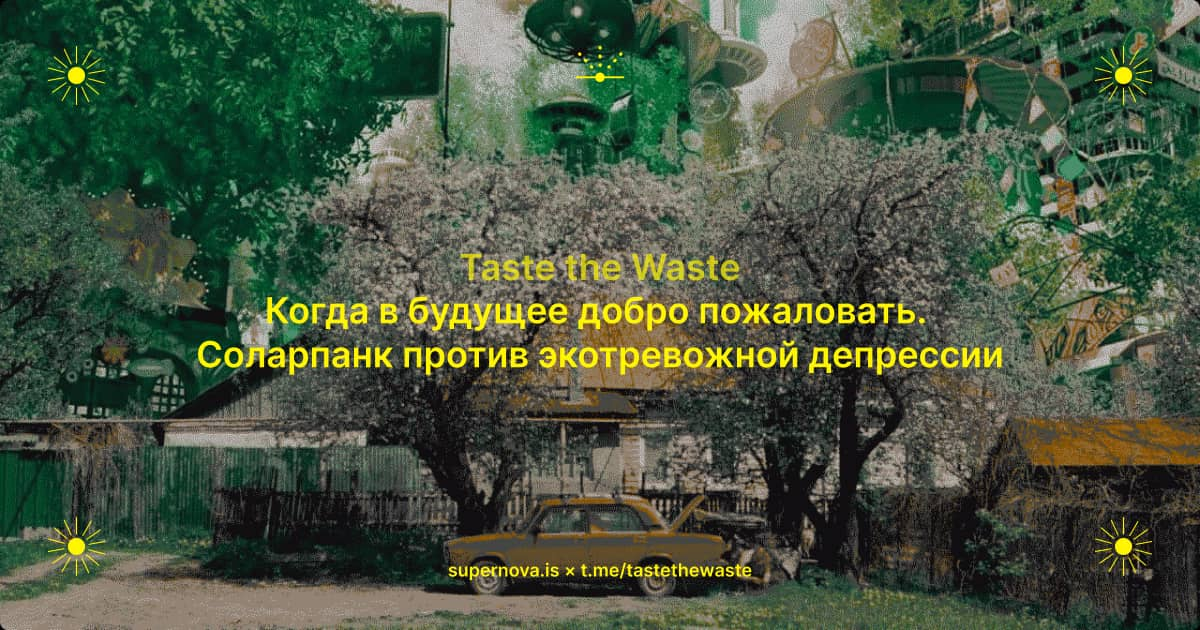
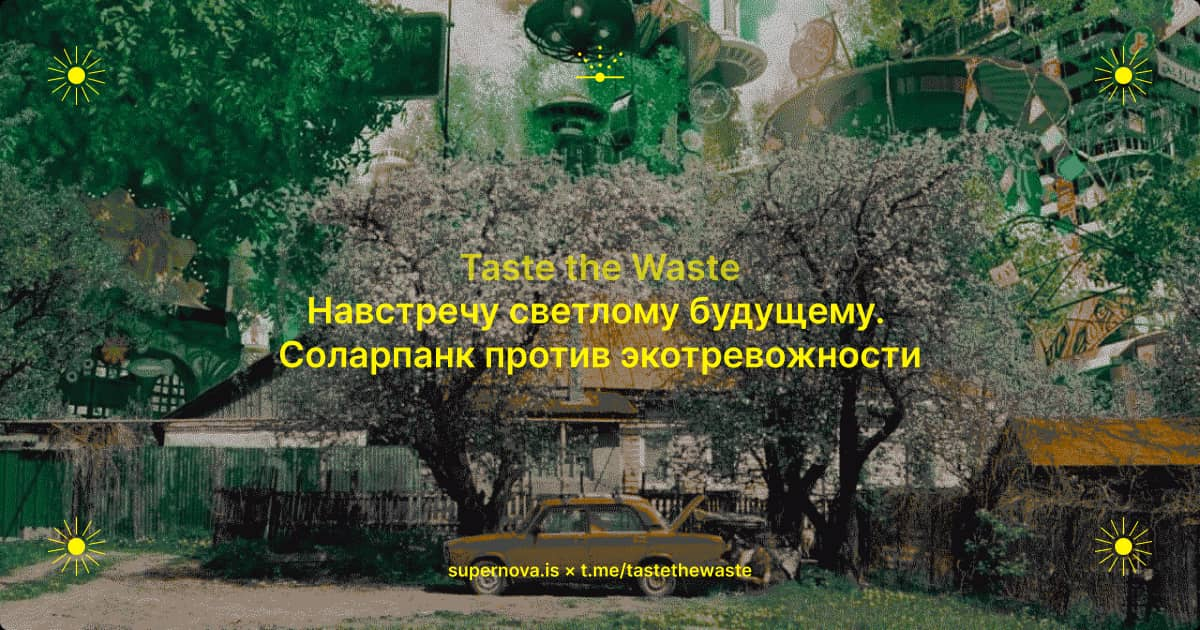
Last minute copy changes

Changed region(s): [[0.1542, 0.4524, 0.8325, 0.6032]]

diff --git a/visions/solarpunk.html b/visions/solarpunk.html
@@ -6,13 +6,13 @@
     <meta charset="UTF-8">
     <meta name="viewport" content="width=device-width, initial-scale=1.0">
     
-    <title>Когда в&nbsp;будущее добро пожаловать. Соларпанк против экотревожной депрессии</title>
+    <title>Навстречу светлому будущему. Соларпанк против экотревожности</title>
     <meta name="description" content="Как новый литературный жанр делает утопию вновь желанной и&nbsp;приближенной к&nbsp;реальности, и&nbsp;причем тут солнечная энергетика">
         
     <!-- Facebook Meta Tags -->
     <meta property="og:url" content="supernova.is">
     <meta property="og:type" content="website">
-    <meta property="og:title" content="Когда в&nbsp;будущее добро пожаловать. Соларпанк против экотревожной депрессии">
+    <meta property="og:title" content="Навстречу светлому будущему. Соларпанк против экотревожности">
     <meta property="og:description" content="Как новый литературный жанр делает утопию вновь желанной и&nbsp;приближенной к&nbsp;реальности, и&nbsp;причем тут солнечная энергетика">
     
     <meta property="og:image" content="/img/solarpunk/solarpunk-og.jpg">
@@ -21,7 +21,7 @@
     <meta name="twitter:card" content="summary_large_image">
     <meta property="twitter:domain" content="supernova.is">
     <meta property="twitter:url" content="supernova.is">
-    <meta name="twitter:title" content="Когда в&nbsp;будущее добро пожаловать. Соларпанк против экотревожной депрессии">
+    <meta name="twitter:title" content="Навстречу светлому будущему. Соларпанк против экотревожности">
     <meta name="twitter:description" content="Как новый литературный жанр делает утопию вновь желанной и&nbsp;приближенной к&nbsp;реальности, и&nbsp;причем тут солнечная энергетика">
     
     <meta name="twitter:image" content="/img/solarpunk/solarpunk-og.jpg">
@@ -93,7 +93,7 @@
             <!-- <figcaption class="caption" onclick="window.open('https://commons.wikimedia.org/wiki/Lockheed_SR-71_Blackbird#/media/File:SR71_crew.jpg','_blank');">Экипаж NASA Lockheed SR-71 Blackbird. Фото: NASA/Jim Ross</figcaption> -->
         </figure>
         <h2 class="headline pre-headline byline" rel="author" onclick="window.open('https://t.me/tastethewaste','_blank');">Taste the Waste</h2>
-        <h1 class="headline">Когда в&nbsp;будущее добро пожаловать. Соларпанк против экотревожной депрессии</h1>
+        <h1 class="headline">Навстречу светлому будущему. Соларпанк против экотревожности</h1>
 
         <time pubdate datetime="2021-05-25">25 мая 2021</time>
     </div>

diff --git a/index.html b/index.html
@@ -154,7 +154,7 @@
                     <img src="/img/solarpunk/solarpunk-1.png" alt="">
                 </div>
                 <div class="author-text">
-                    <address class="byline"><p rel="author" href="/404.html">Когда в&nbsp;будущее добро пожаловать. Соларпанк против экотревожной депрессии</p></address>
+                    <address class="byline"><p rel="author" href="/404.html">Навстречу светлому будущему. Соларпанк против экотревожности</p></address>
                     <div class="byline-desc">Как новый литературный жанр делает утопию вновь желанной и&nbsp;приближенной к&nbsp;реальности, и&nbsp;причем тут солнечная энергетика</div>
                     <div class="byline-link"> <a href="https://t.me/tastethewaste">Taste the Waste</a></div>
                 </div>
@@ -165,8 +165,8 @@
                     <img src="/img/saharov/saharov.jpg" alt="">
                 </div>
                 <div class="author-text">
-                    <address class="byline"><p rel="author" href="/404.html">Мир через полвека</p></address>
-                    <div class="byline-desc">К столетию академика Андрея Сахарова сверхновая публикует перевод его статьи, написанной весной 1974 года по просьбе американского журнала Saturday Review</div>
+                    <address class="byline"><p rel="author" href="/404.html">Андрей Сахаров. Мир через полвека</p></address>
+                    <div class="byline-desc">К столетию академика сверхновая публикует перевод статьи ученого, написанной весной 1974 года по просьбе американского журнала Saturday Review</div>
                     <div class="byline-link"> <a href="https://t.me/anthropocene_affairs">Андрей Сахаров</a></div>
                 </div>
             </div>
